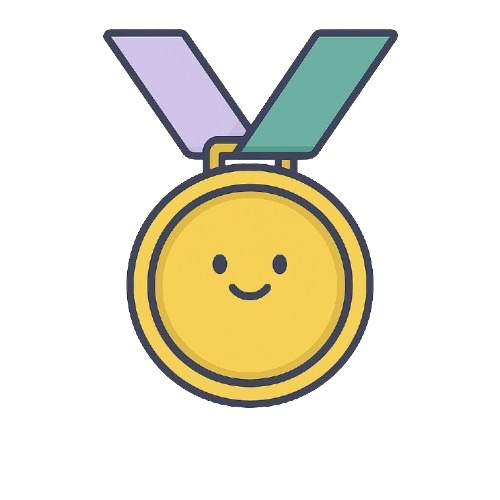
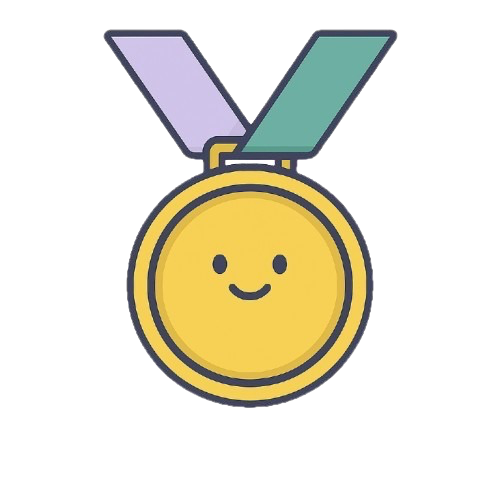
update medal images and adjust styling in DashboardHeader component

diff --git a/components/dashboard/DashboardHeader.tsx b/components/dashboard/DashboardHeader.tsx
@@ -30,7 +30,7 @@ export default function DashboardHeader({ onMenuPress }: DashboardHeaderProps) {
                     <Image
                         source={medal}
                         style={styles.medalImage}
-                        resizeMode="cover"
+                        resizeMode="contain"
                     />
                 )}
                 {streak >= 2 && (
@@ -59,8 +59,8 @@ const styles = StyleSheet.create({
     },
     medalImage: {
         width: 70,
-        height: 70,
-        marginBottom: -15,
+        height: 80,
+        marginBottom: -8,
     },
     streakBadge: {
         flexDirection: 'row',
